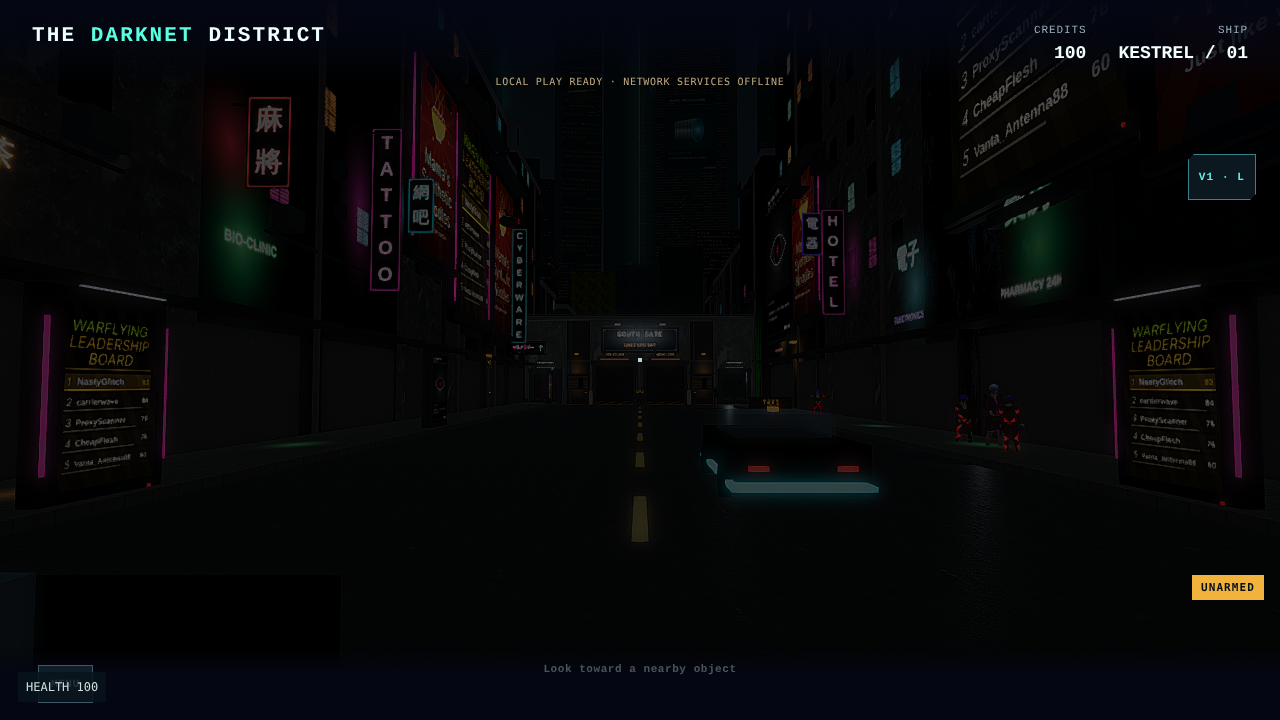
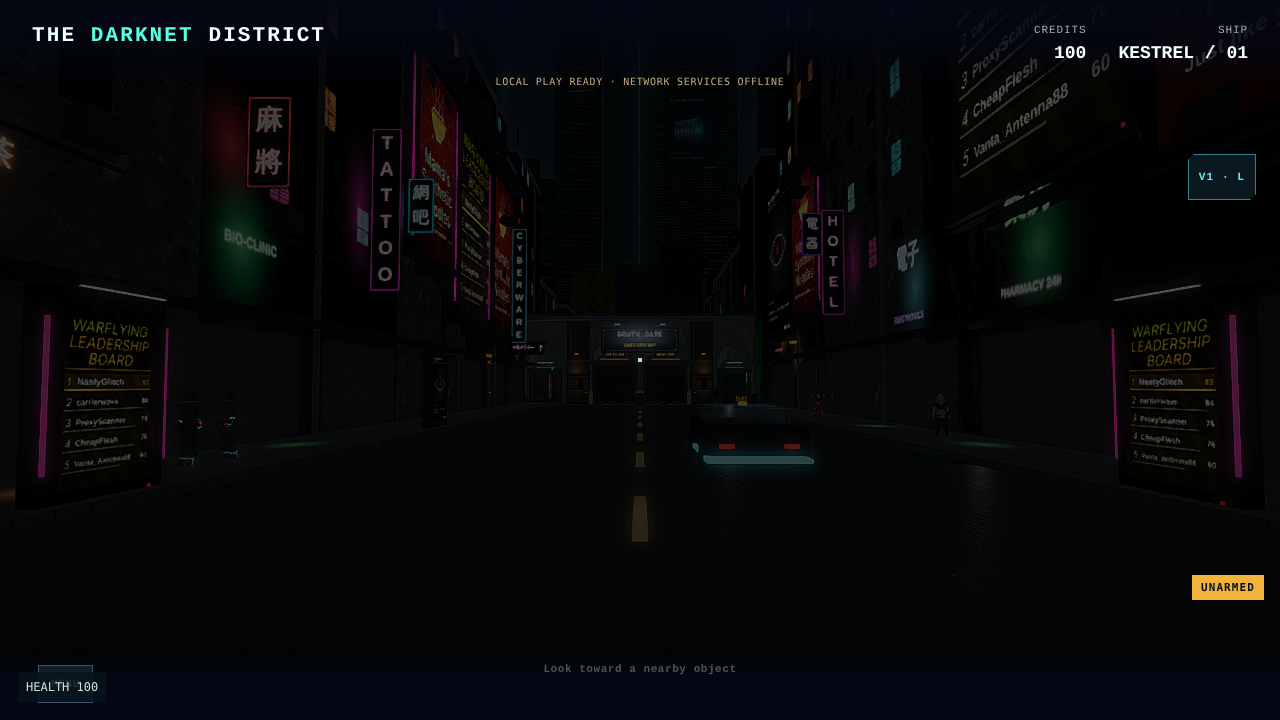
Monks: browser verification (Medium and Low), screenshots, perf, docs (TEMPLE.md, AI_HANDOFF)
Claude-Session: https://claude.ai/code/session_013LW6cCPWiok2HMcoh6xN6q

Changed region(s): [[0.5312, 0.6111, 0.6875, 0.7028], [0.5625, 0.55, 0.625, 0.5806]]

diff --git a/docs/development/TEMPLE.md b/docs/development/TEMPLE.md
@@ -1,5 +1,11 @@
 # Zen Zephyr Temple: the Sanctum of the Circuit
 
+> **Update, build `2026-11-18-monks-1` (Monks; Zen Zephyr's own model):** the owner: "The closer you get to the Temple the more Monks there are compared to other NPCs", and Zen Zephyr from his book picture.
+> - **Zen Zephyr** is now his own seated model (`void-runner/assets/models/crowd/npc-zen-zephyr.glb`, Meshy from the owner's book picture; `docs/development/MESHY_CHARACTERS.md`): pale android face with closed eyes, ear discs, black mechanical neck and torso with teal lights and a round chest core, chrome arms with the hands in his lap, dark olive robe pooled on the dais, mustard sash over the left shoulder. `temple.js MODEL.asset` names it (`height` 1.45 m seated); `temple-build.js` loads it in the background and keeps the primitive figure until it arrives (or if it fails), then removes the primitive. Still seated at [0,22], yaw 0 (facing away from the entrance, the owner's choice). It is a static figure (a seated robe cannot be rigged from an A-pose) that breathes very slightly; its head is cut at the neck into `zz:Neck` > `zz:Head` (pivot at the neck), so the speaker's gaze (`npc-look.js`) turns it toward the player while he speaks. Dialogue and interaction unchanged.
+> - **The Temple's monks** (`temple.js MONKS`, `monksFor(quality)`): Low 2, Medium 5, High 7, from the three monk figures (`npc-monk-elder`, `npc-monk-tech`, `npc-monk-grey`). Praying ones stand still at the data altars on the side away from the altar's prompt, facing it; walking ones go slowly up and down the side aisles and the courtyard's sides at the street monks' pace (`VoidNightlife.monkSpeed()`, walk clip slowed to match), pausing and turning unhurriedly at each end. Nobody is on the walk up the middle to the dais (tested). They are tagged monks (`VoidNPCDevice.tag(node,{monk:true})`: never a V1, never filming), lit by the hall's own lights and shown in the floor mirror.
+> - **On the streets** (`ncz-nightlife.js config.monkShare`): a walker's chance of being a monk rises toward the East Gate (3% far away, 70% at the gate). Medium: 1 monk among Old Town's 17 walkers, 3 among the Avenue's 11 (steady per quarter: walkers x the lanes' average share); each keeps to the stretch of lane toward the gate and comes and goes through it. Street monks wear the monk figures and use the existing monk behaviour (slow steady walk, early side-step for V1 readers). A NaN fault in that behaviour when a monk met someone standing about was fixed.
+> - **Tests:** `tests/monks.test.cjs` (density rule, assets, Temple placement), `tests/temple.test.cjs` (model rule), browser `tests/monks-browser.cjs`. Screenshots and concepts: `docs/development/monks/`.
+
 > **Update, build `2026-11-18-temple-wall-1` (monastery wall at the edge, translucent):** the owner asked for "a Buddhist monastery style wall around the outside of the Temple area, cyberpunk style but matching the Temple ... right at the dropoff on the edge, not very high, just taller than the player", then "make the new wall translucent, but about .20m solid at the bottom and the solid part slightly thicker with trim at the bottom". `void-runner/temple-wall.js` (new; pure layout + 3D build) puts a continuous wall on the plateau edge (outer face at 49.65 m; the ground ends at 50), **2.3 m** to the top (the player's eye is 1.7 m): a **0.2 m solid base** of the hall's printed concrete, 0.5 m thick, on a dark **trim moulding** at the foot; above it **translucent dark-teal glass** (0.24 m) between slim dark mullions every ~2.7 m, a thin **maroon rail** and a dark cap on top (the monastery wall's band and coping, kept as a rail); a faint **dharma-wheel glyph** glowing in the glass every bay (Medium and up), a few warm lamps hung under the rail; solid **corner posts and gate piers with small stupa finials**; saffron cloth only at the gatehouse and the overlook.
 > - **Openings:** a **gatehouse** in the south wall behind the taxi stop: a road bay (7.2 m, centred on the cab) and a walkers' bay (4.4 m) right behind the EAST GATE · ON FOOT sign, with a lintel, band, tiled roof and two lamps; the hill road and the footpath run out through it and down the slope (warm marker posts). The player can walk into the gate bays up to the edge, not off it. In the east wall an **overlook window** in front of OVERLOOK THE CITY: glass only to 1 m, slim posts and the rail above, so the view down to the city is clear (it stays solid).
 > - **Collision:** full height (glass included). The wall wraps `VoidTemple.layout()` from its own file: the old 1.2 m parapet's four solids are replaced by the wall's segments (gaps at the two gate bays only). All interactions are still reachable (`tests/temple-wall.test.cjs`, and the browser walk). `temple-build.js` calls `VoidTempleWall.build(...)` on the line that drew the parapet, and still draws the parapet if the file is missing. Not on the V1 map yet (the map's walls come from `temple.js`).
@@ -51,7 +57,7 @@ Personal HUD taxi list: **Zen Zephyr Temple · 60 CR, return included**. The str
 - **Zen Zephyr:** a seated placeholder monk on the dais: silver head, closed eyes, dark robe, mustard sash, mechanical joints and hands, teal chest lights, calm cross-legged posture, gentle breathing and a slow head sway.
 
 ### Replacement point for the monk (easy to find)
-Open `void-runner/temple.js`, block `==== WHERE TO CHANGE THINGS ====`, object `MODEL` (`id: 'zen-zephyr'`, `asset: null`). Package the real model with the usual private asset process and set `asset`; `temple-build.js` is where the primitive monk is built (search `mk-skull`). The seat, the facing, and the interaction are in `temple.js`. A real model keeps his gaze if its head bone is named `...Head`.
+Open `void-runner/temple.js`, block `==== WHERE TO CHANGE THINGS ====`, object `MODEL` (`id: 'zen-zephyr'`, `asset: 'npc-zen-zephyr'`, `file`, `height`). Since 18 Nov 2026 it is his own seated model; another file can be named there. `temple-build.js` builds the primitive stand-in (search `mk-skull`) and swaps in the model (`function zen`). The seat, the facing, and the interaction are in `temple.js`. A model keeps his gaze if it has nodes or bones named `...:Neck` / `...:Head`.
 
 ## The conversation
 

diff --git a/docs/development/AI_HANDOFF.md b/docs/development/AI_HANDOFF.md
@@ -6,6 +6,17 @@
 
 ## CURRENT DEVELOPMENT STATE — RESUME HERE
 
+### 18 Nov 2026 (newest): MONKS — THREE MONK FIGURES ON THE STREETS AND AT THE TEMPLE; ZEN ZEPHYR'S OWN SEATED MODEL (branch `claude/monks`, build `2026-11-18-monks-1`, pushed, NO PR, not merged)
+
+The owner: "The closer you get to the Temple the more Monks there are compared to other NPCs"; monks from his reference picture of three monks; Zen Zephyr from his book picture.
+
+- **Models (Meshy on the owner's PC through the Blender bridge, 200 credits, ledger in `MESHY_CHARACTERS.md`):** `npc-monk-elder` (saffron robes, mala, grey goatee), `npc-monk-tech` (dark brown robe, amber visor and small light panels, belt and pouches), `npc-monk-grey` (grey patterned robe, wrapped scarf, face seams): rigged, clips idle, talk, walk, look, watch, sit, about 30,600 triangles and 3.7 to 3.9 MB each. `npc-zen-zephyr`: seated, static (not rigged), 41,000 triangles, 3.8 MB, head cut at the neck into `zz:Neck` > `zz:Head` so his gaze still turns. Concepts and references for the owner: `docs/development/monks/concept-*.jpg`, `reference-*.jpg`.
+- **Streets (`ncz-nightlife.js` `config.monkShare`, `monkShareAt`, `monkRange`, `monkAverage`):** 3% of walkers far from the East Gate rising to 70% at it; the count per quarter is steady (walkers x the lanes' average share: Medium has 1 monk in Old Town, 3 on the Avenue; High 1 and 5; Low 0 and 1); who is drawn by the share where they start; each keeps to the stretch of lane toward the gate and comes and goes through it. They wear the monk figures (`crowd.js monks`, loaded with the street) and use the existing monk behaviour (tagged `VoidNPCDevice.tag(node,{monk:true})`). **Bug fixed:** a monk meeting someone standing about got a NaN line across the sidewalk (people standing have no speed) and vanished.
+- **Temple (`temple.js MONKS`, `temple-build.js`):** Low 2, Medium 5, High 7 monks: praying at the data altars (on the side away from the prompt) or walking the side aisles and courtyard slowly; never on the walk up to the dais. Zen Zephyr's model replaces the primitive figure when it has loaded (`MODEL.asset`, `height` 1.45 m), still at [0,22] facing away from the entrance; dialogue untouched.
+- **Tests:** `tests/monks.test.cjs` (new), `temple.test.cjs` (model rule updated). Browser `tests/monks-browser.cjs` (passed on Medium and Low, software GL): Old Town vs Avenue counts, close-ups, perf with and without monks, the Temple, Zen Zephyr from both sides, his gaze while he speaks. Screenshots `docs/development/monks/*-medium.png`. Details: `TEMPLE.md` (top update).
+- **Measured (software GL, Medium; relative numbers only):** the Temple hall from the entrance 172 -> 185 draw calls and 66 -> 74 active meshes with its 5 monks (Low: 59 -> 61 with 2); the frame's CPU submit about 1 to 3 ms more in the software renderer (noise-level there). Zen Zephyr's model is 2 meshes in place of the ~40 primitive pieces. On the street the monks replace ordinary walkers one for one (no extra people); a monk figure is one skinned mesh and one material against 7 to 9 for a MakeHuman look; street draw-call deltas for one figure were within the noise of the moving crowd (one monk in view about +12). Downloads: three more crowd files (about 11 MB) with the street, one (3.8 MB) with the Temple, in the background.
+- **Not verified:** real GPU, High/Ultra in a browser, VR; the street LOD (far monks step their held walk clip at normal speed, known from the monk-walk work). Zen Zephyr is quite dark in the hall (black robe under the cold oculus light): the owner may want a warmer key on him.
+
 ### 18 Nov 2026 (newest): TEMPLE MONASTERY WALL AT THE EDGE, TRANSLUCENT (branch `claude/temple-wall`, build `2026-11-18-temple-wall-1`)
 
 - **The owner:** "a Buddhist monastery style wall around the outside of the Temple area, cyberpunk style but matching the Temple ... right at the dropoff on the edge, not very high, just taller than the player", then "make the new wall translucent, but about .20m solid at the bottom and the solid part slightly thicker with trim at the bottom". New file `void-runner/temple-wall.js` (pure layout + 3D build), loaded after `temple.js`; one hook line in `temple-build.js` where the parapet was drawn (falls back to the parapet if the file is missing). 2.3 m tall, outer face 0.35 m inside the drop: a 0.2 m solid concrete base (0.5 m thick) on a dark trim moulding, translucent dark-teal glass above (one material) between dark mullions, a thin maroon rail and dark cap, faint dharma-wheel glyphs in the glass, a few warm lamps, stupa finials on solid corner posts and gate piers, saffron cloth only at the gate and the overlook.
